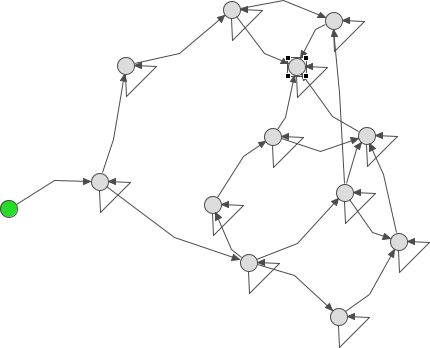
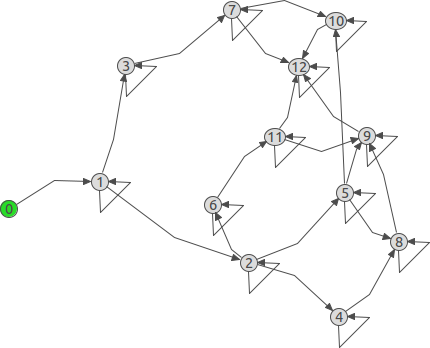
updated figure

diff --git a/emft/henshin/examples/gossipinggirls/index.html b/emft/henshin/examples/gossipinggirls/index.html
@@ -44,7 +44,7 @@ To solve the gossiping girls problem, we generate the state space with Henshin a
 </p>
 
 <p>
-The green state is the initial state. The selected state is the target state in which all girls know all secrets. We use the following OCL constraint to identify the target states:
+The green state is the initial state. State 12 is the target state in which all girls know all secrets. We use the following OCL constraint to identify the target states:
 <pre>
 girls->forAll(g : Girl | g.secrets->size()=girls->size())
 </pre>
